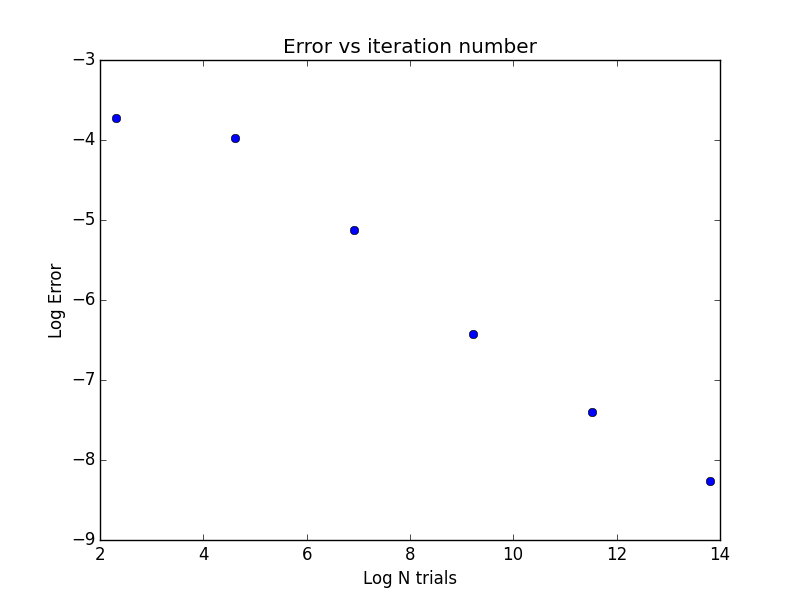
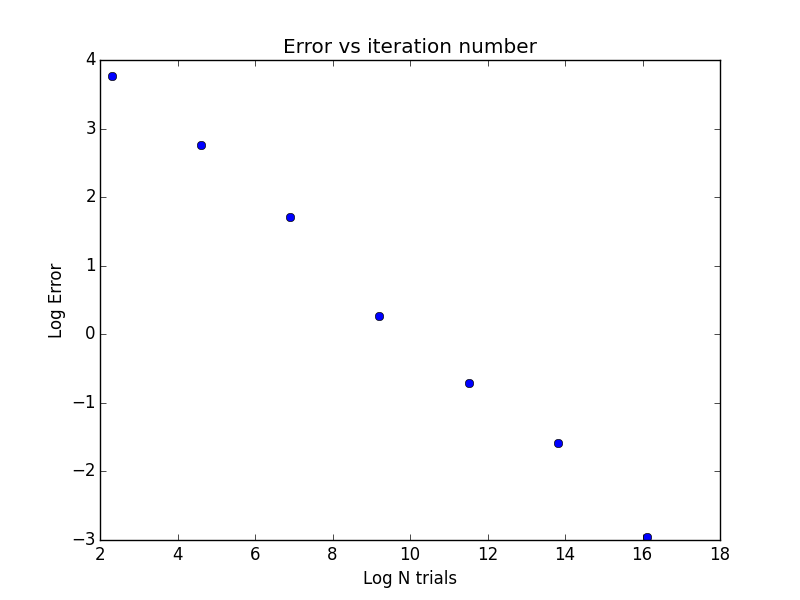
Ignore plots

diff --git a/markovdiscretepebble.py b/markovdiscretepebble.py
@@ -78,17 +78,16 @@ def markov_visits(m,n,i,j,N):
  
      
 if __name__=="__main__":
-   
+   m=51
+   n=91   
    N=1
    ns=[]
    sds=[]
-   for i in range(6):
+   for i in range(7):
       N*=10
-      m=10
-      n=20
       frequencies=markov_visits(m,n,0,0,N)
       ns.append(math.log(N))
-      sds.append(math.log(np.std(frequencies)))
+      sds.append(math.log(np.std(frequencies)/np.mean(frequencies)))
       
    plt.plot(ns, sds, 'o')
    plt.xlabel('Log N trials')
